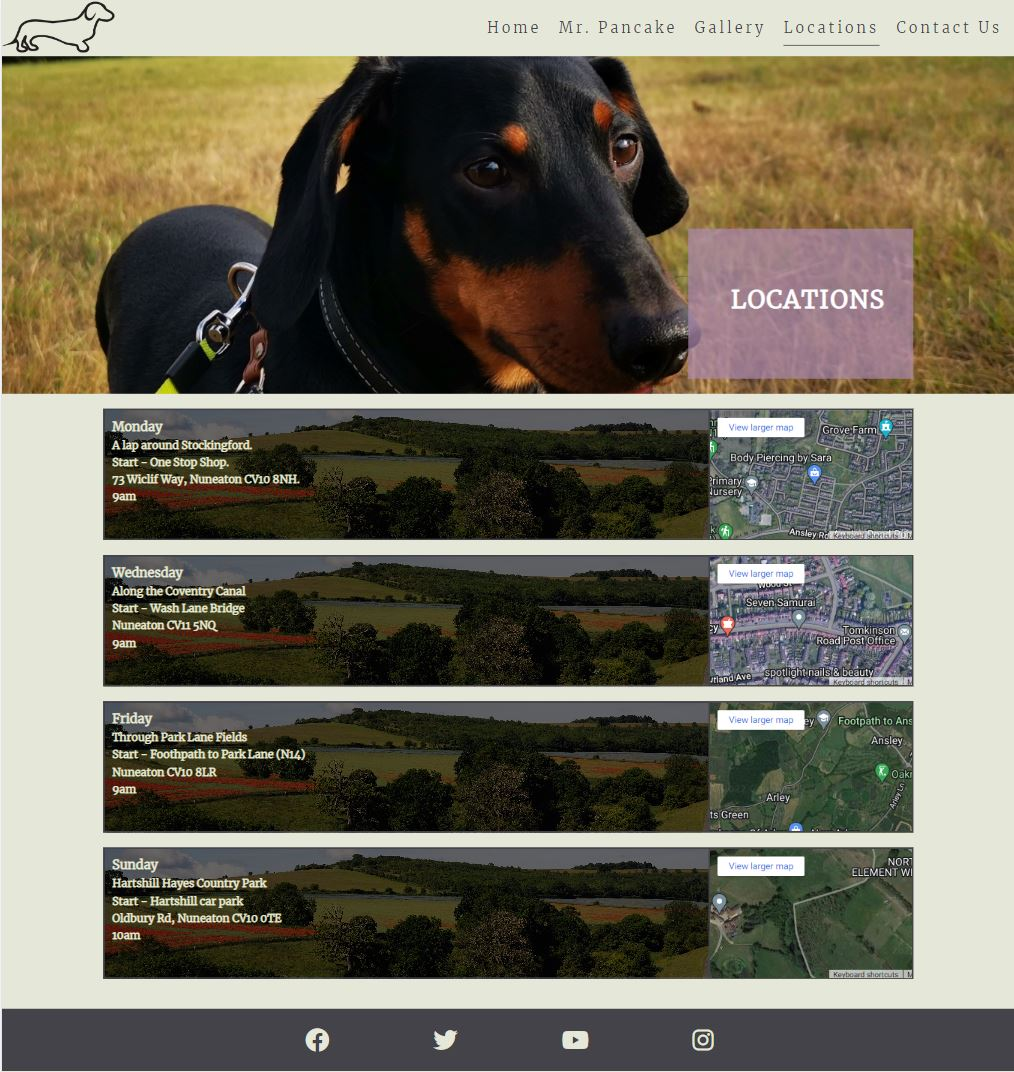
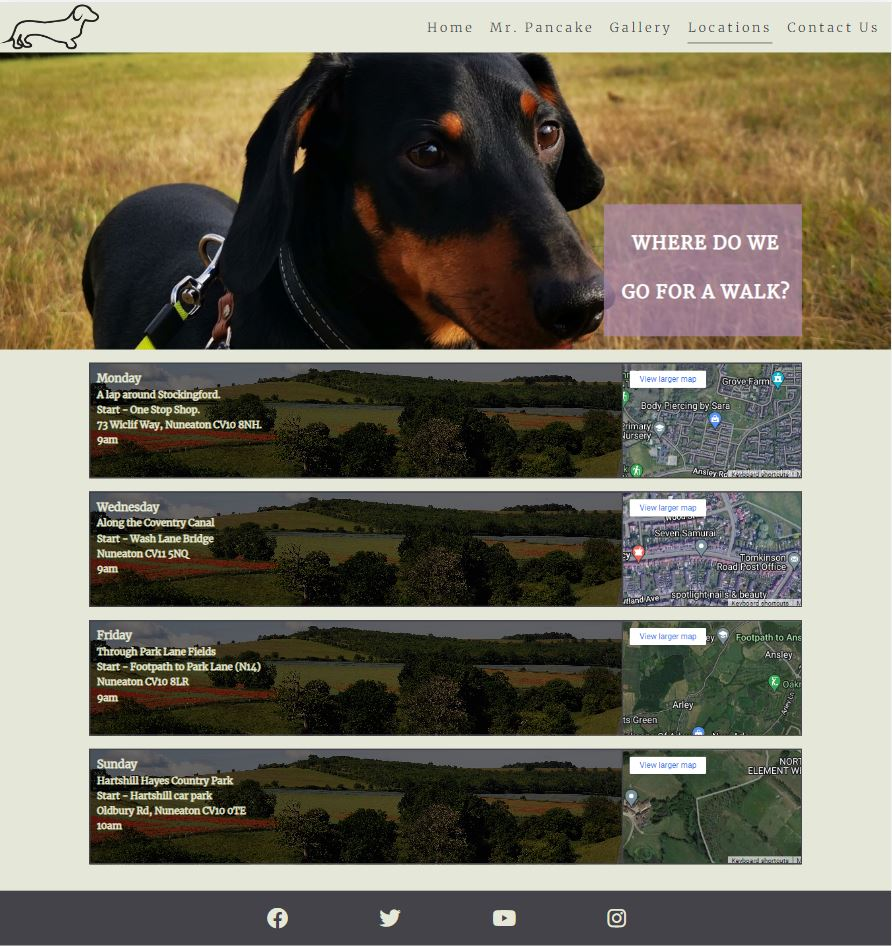
Add padding to locations cover text and replace two location images in docs folder

diff --git a/assets/css/style.css b/assets/css/style.css
@@ -96,13 +96,20 @@ body {
 .who-cover-text {
      text-align: center;
      font-size: 1.7em;
-     line-height: 75px
+     line-height: 75px;
 }
 
 .secondary-cover-text {
      text-align: center;
      font-size: 1.7em;
-     line-height: 150px
+     line-height: 150px;
+}
+
+.where-cover-text {
+     text-align: center;
+     font-size: 1.7em;
+     line-height: 75px;
+     padding-right: 10px;
 }
 
 

diff --git a/locations.html b/locations.html
@@ -41,7 +41,7 @@
         <section class="top-outer">
             <div class="top-cover2">
                 <div class="cover-text">
-                    <h2 class="who-cover-text">Where do we go for a walk?</h2>
+                    <h2 class="where-cover-text">Where do we go for a walk?</h2>
                 </div>
             </div>    
         </section>
